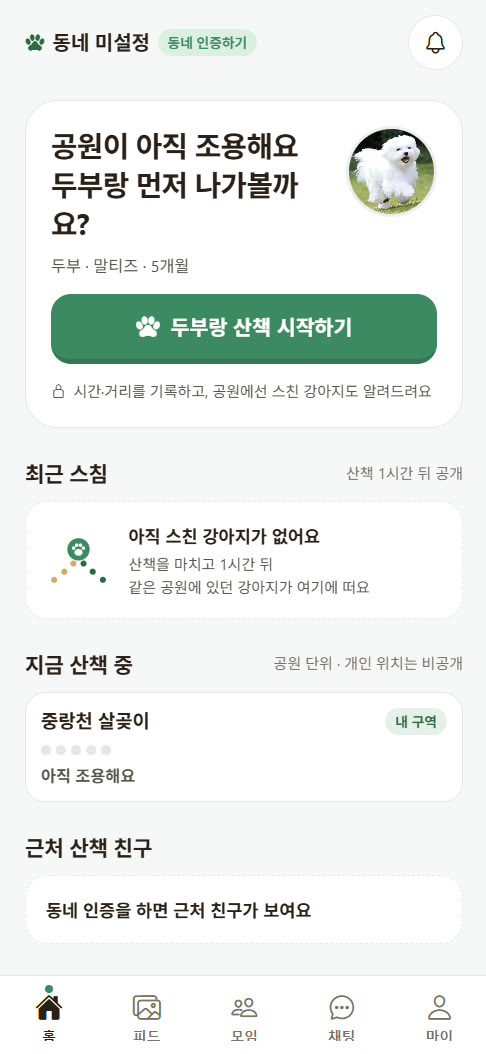
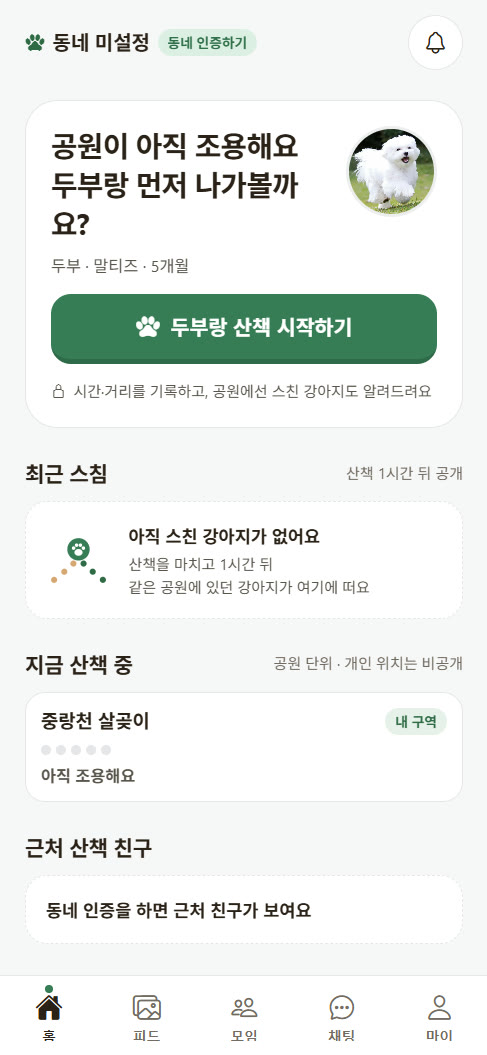
행동 색 대비 개선(#367C55) 반영 — 페이지 초록과 홈·마이·피드·모임 화면 사진 교체

diff --git a/index.html b/index.html
@@ -15,7 +15,7 @@
   --paper: #FFFFFF;
   --cream: #FAF6F0;     /* 로그인 배경 */
   --mint: #CDE3D4;      /* 아이콘 배경 */
-  --action: #3E8A62;    /* 행동 색 */
+  --action: #367C55;    /* 행동 색 */
   --ink: #1F2A24;
   --muted: #5E6B63;
   --line: #E1E6E2;
